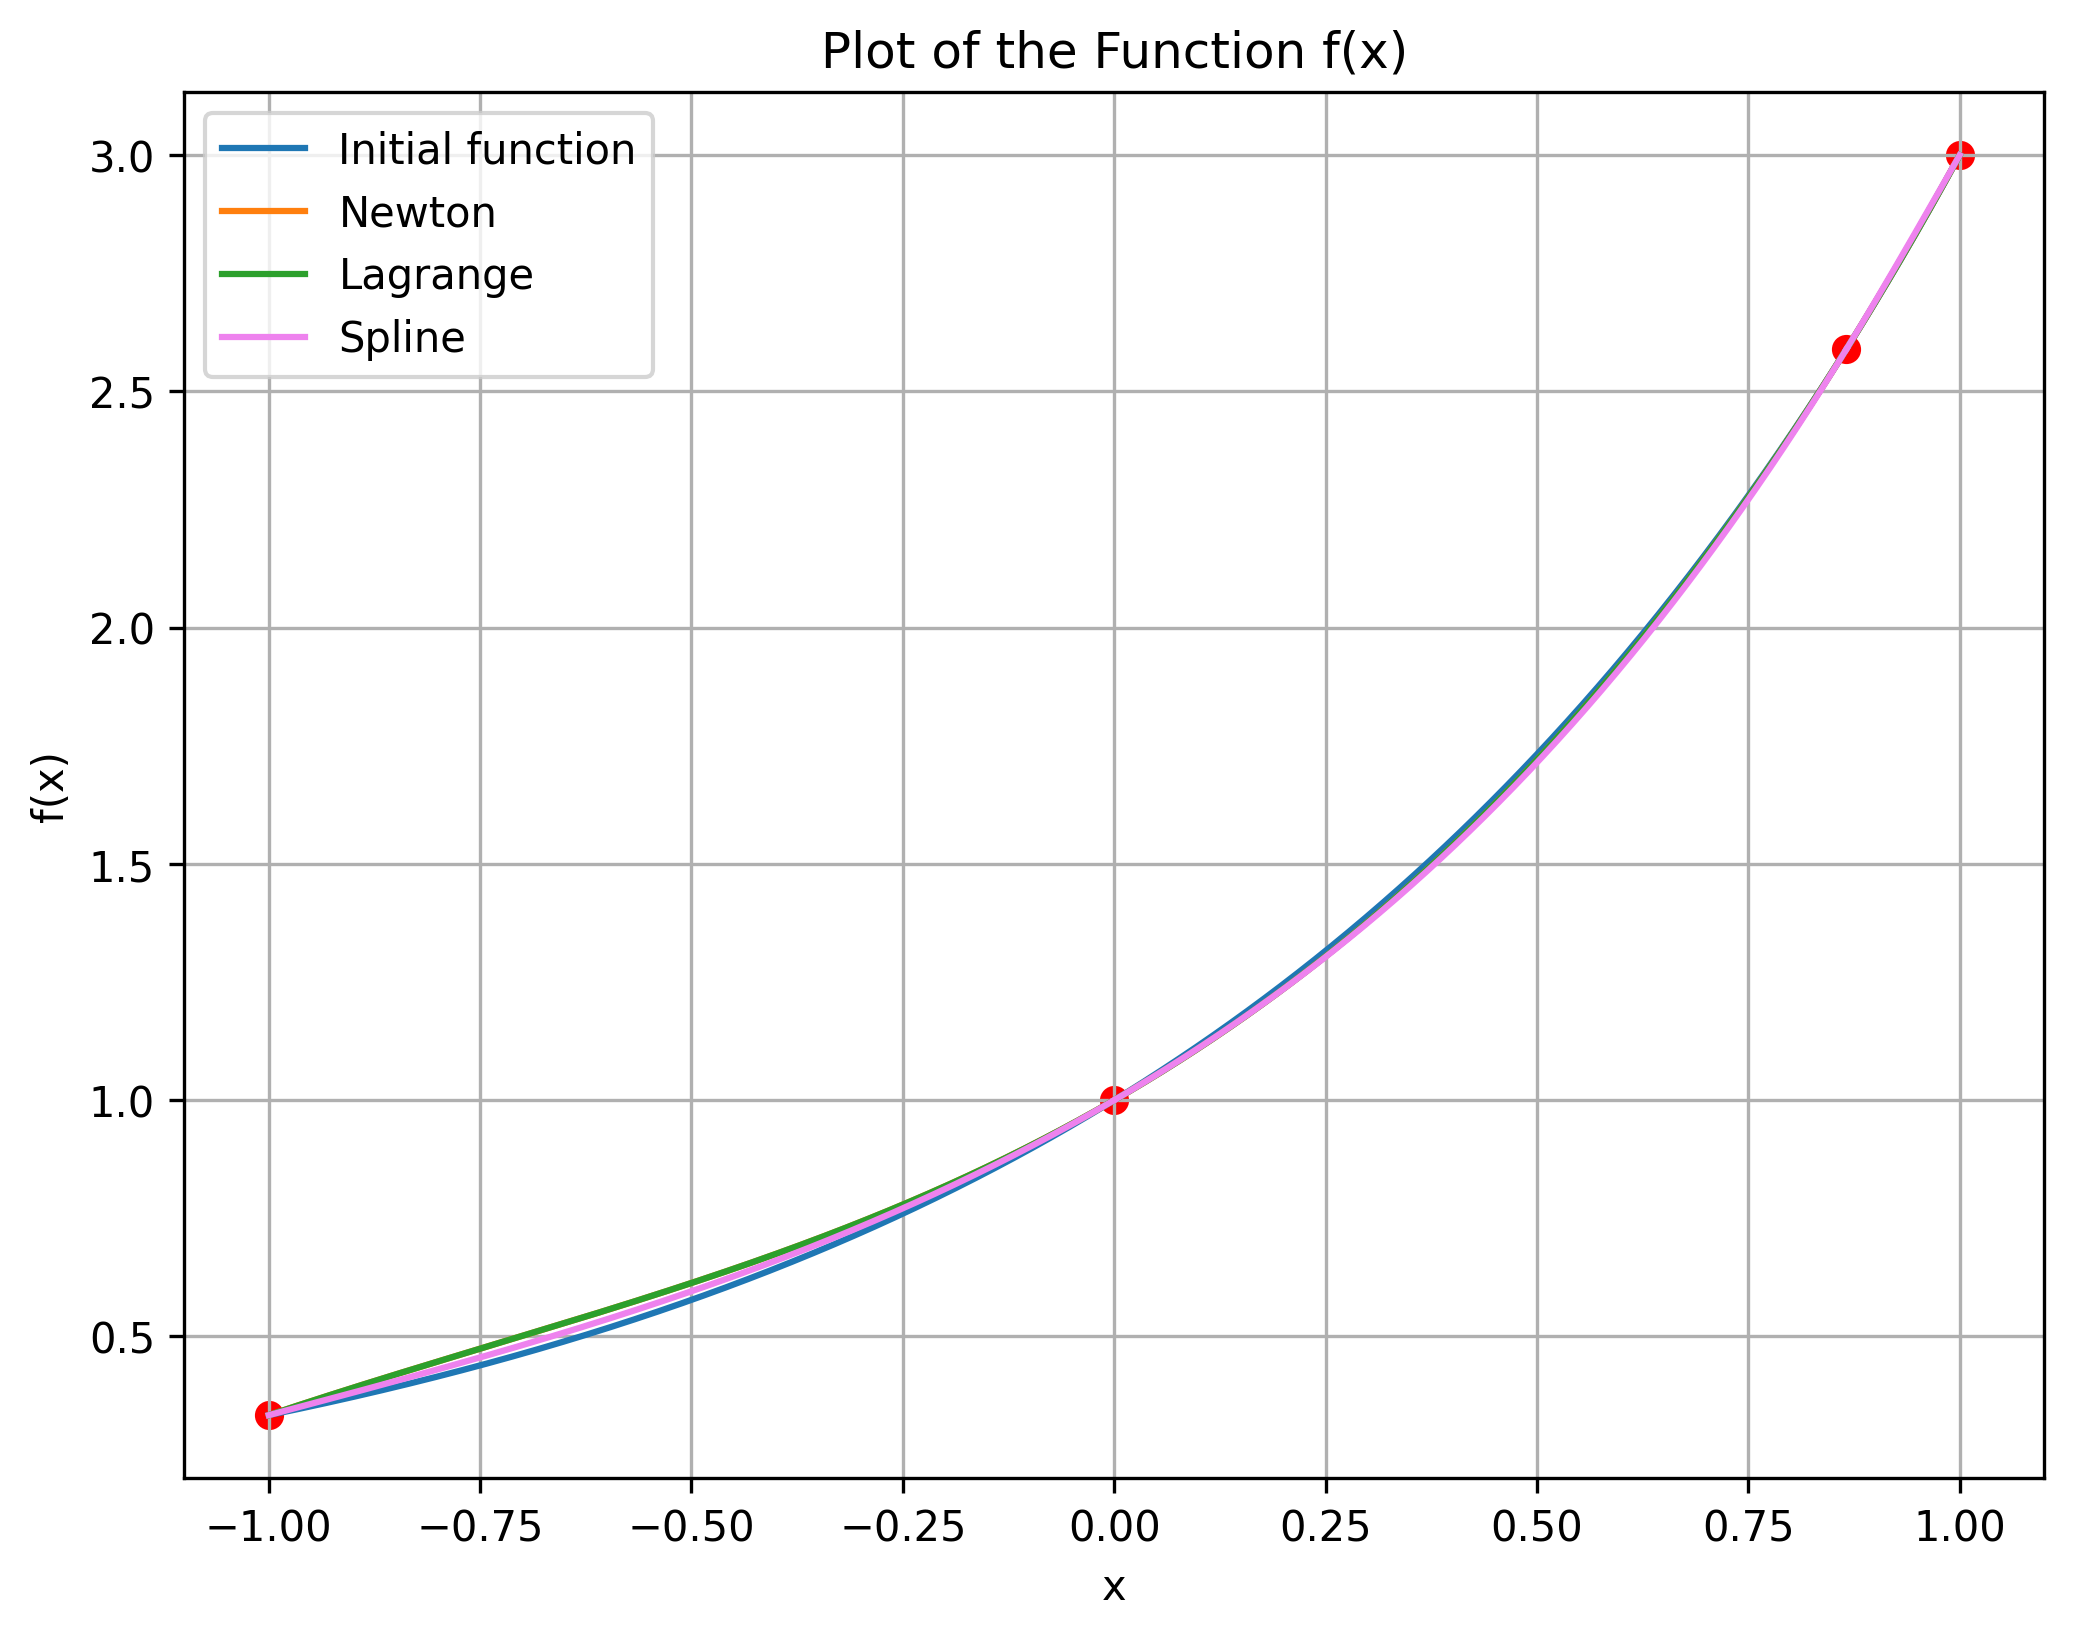
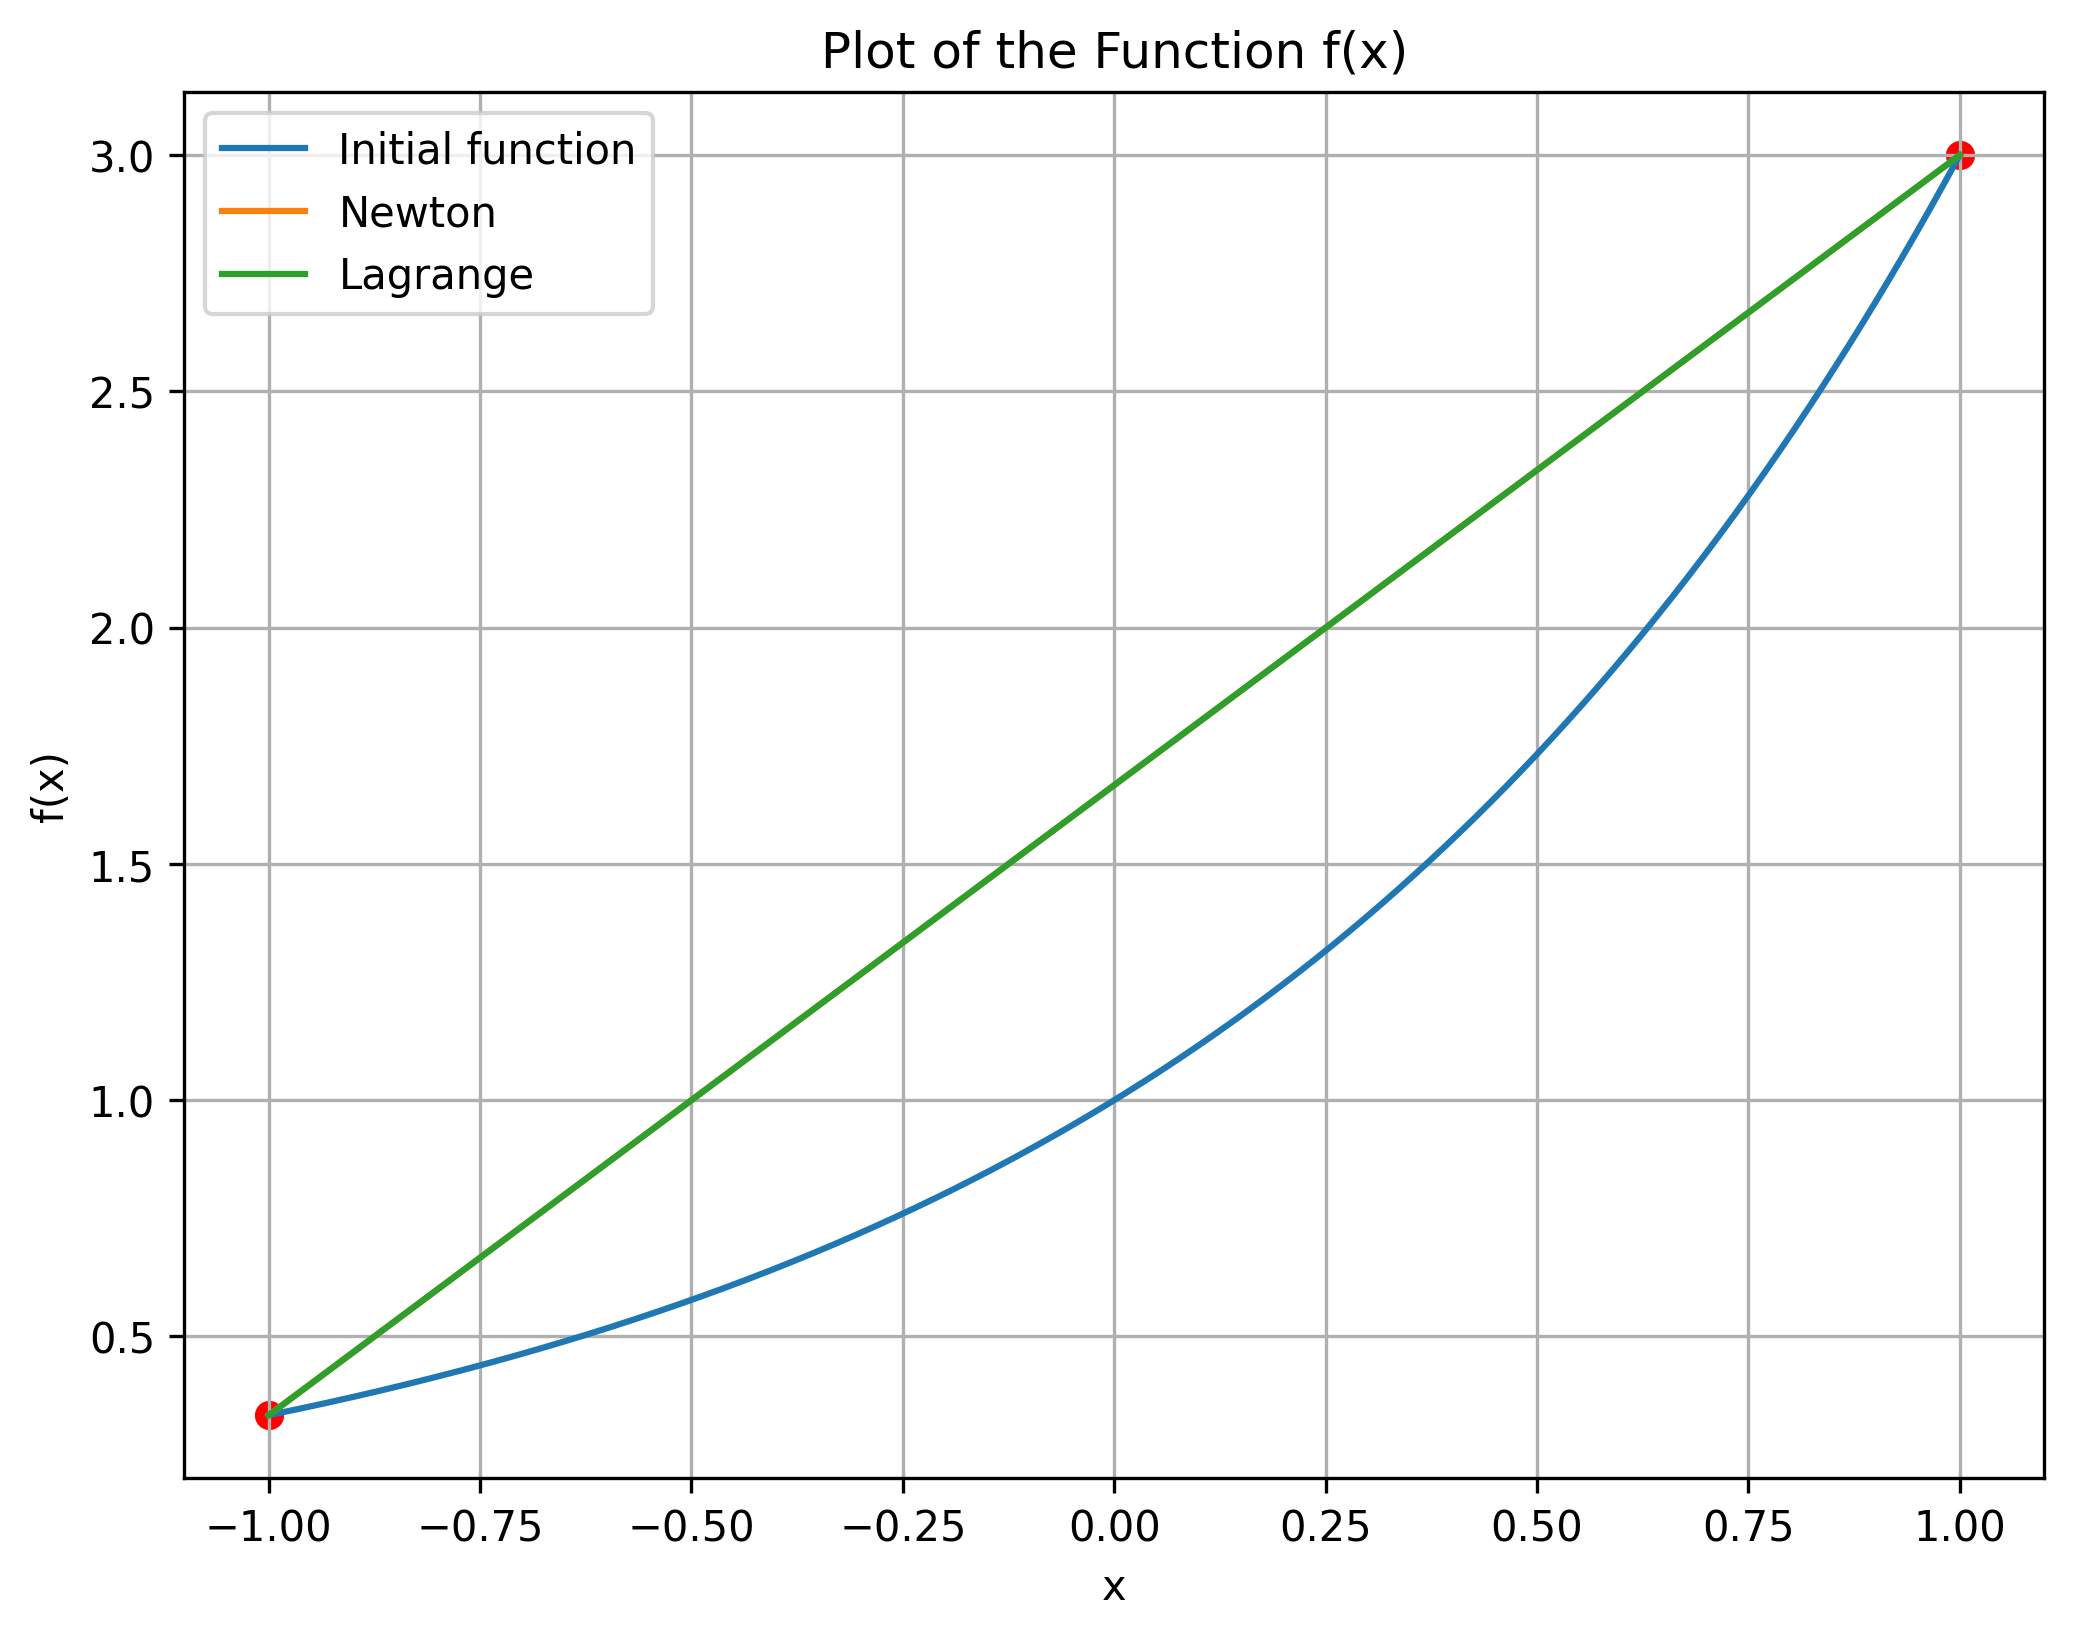
added test for low N

diff --git a/lab5/code/plot.py b/lab5/code/plot.py
@@ -12,15 +12,20 @@ def init_and_plot():
     expr = 3 ** x
     a = -1
     b = 1
-    n = 4
-    strategy = 'O'
+    n = 2
+    strategy = 'E'
     plot(x, expr, a, b, n, strategy)
 
 
 def add_to_plot(x, expr, a, b, name):
-    numpy_function = sp.lambdify(x, expr, 'numpy')
-    x_values = np.linspace(a, b, 1000)
-    y_values = numpy_function(x_values)
+    if isinstance(expr, sp.Expr) and not expr.free_symbols:
+        const_value = float(expr.evalf())
+        x_values = np.linspace(a, b, 1000)
+        y_values = np.full(1000, const_value)
+    else:
+        numpy_function = sp.lambdify(x, expr, 'numpy')
+        x_values = np.linspace(a, b, 1000)
+        y_values = numpy_function(x_values)
     plt.plot(x_values, y_values, label=name)
 
 
@@ -52,6 +57,8 @@ def plot_spline(spline_map):
 
 
 def plot(x, expr, a, b, n, strategy='Optimal'):
+    if n < 1:
+        raise ValueError("Not enough points!")
     if strategy == 'Optimal' or strategy == 'O':
         chosen_vals = pr.optimal_values(expr, a, b, n)
     elif strategy == 'Even' or strategy == 'E':

diff --git a/lab5/code/preprocessor.py b/lab5/code/preprocessor.py
@@ -31,7 +31,8 @@ def even_values(function, a, b, n, rank=0):
     vals_arr = []
     if n == 1:
         x = (a + b) / 2
-        to_add(function, x, rank)
+        vals_arr.append(to_add(function, x, rank))
+        return vals_arr
     step = (b - a) / (n - 1)
     curr = a
     for i in range(n):

diff --git a/lab5/code/spline.py b/lab5/code/spline.py
@@ -70,6 +70,9 @@ def to_full_vector(m_v):
 
 
 def spline_interpolation(vals):
+    if len(vals) < 2:
+        print("Not enough points for spline interpolation!")
+        return {}
     x = sp.symbols('x')
     a_matrix = define_a(vals)
     h_matrix = define_h(vals)
